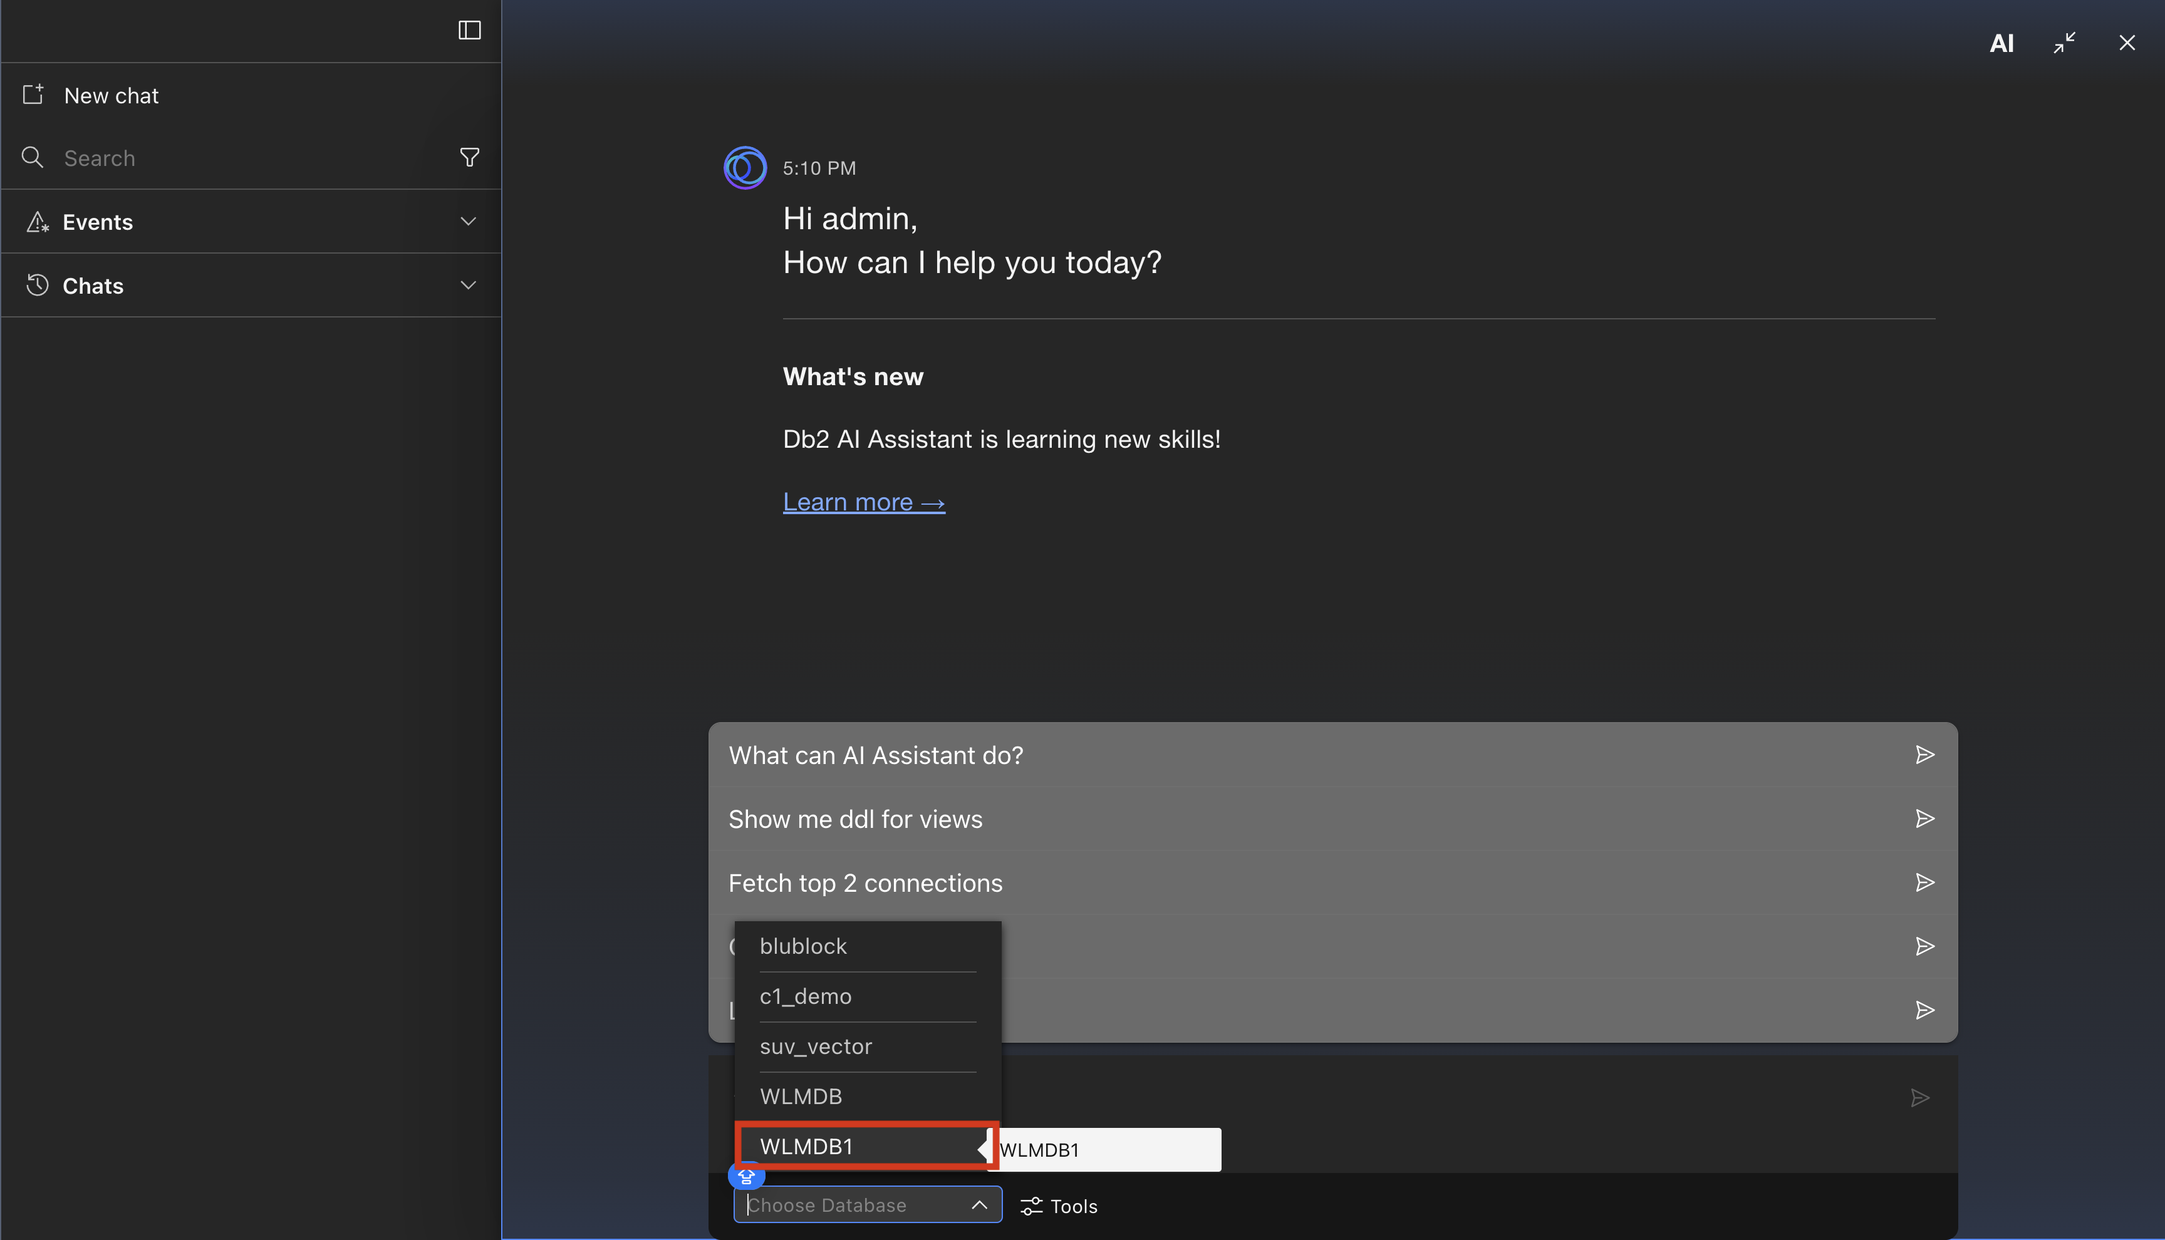
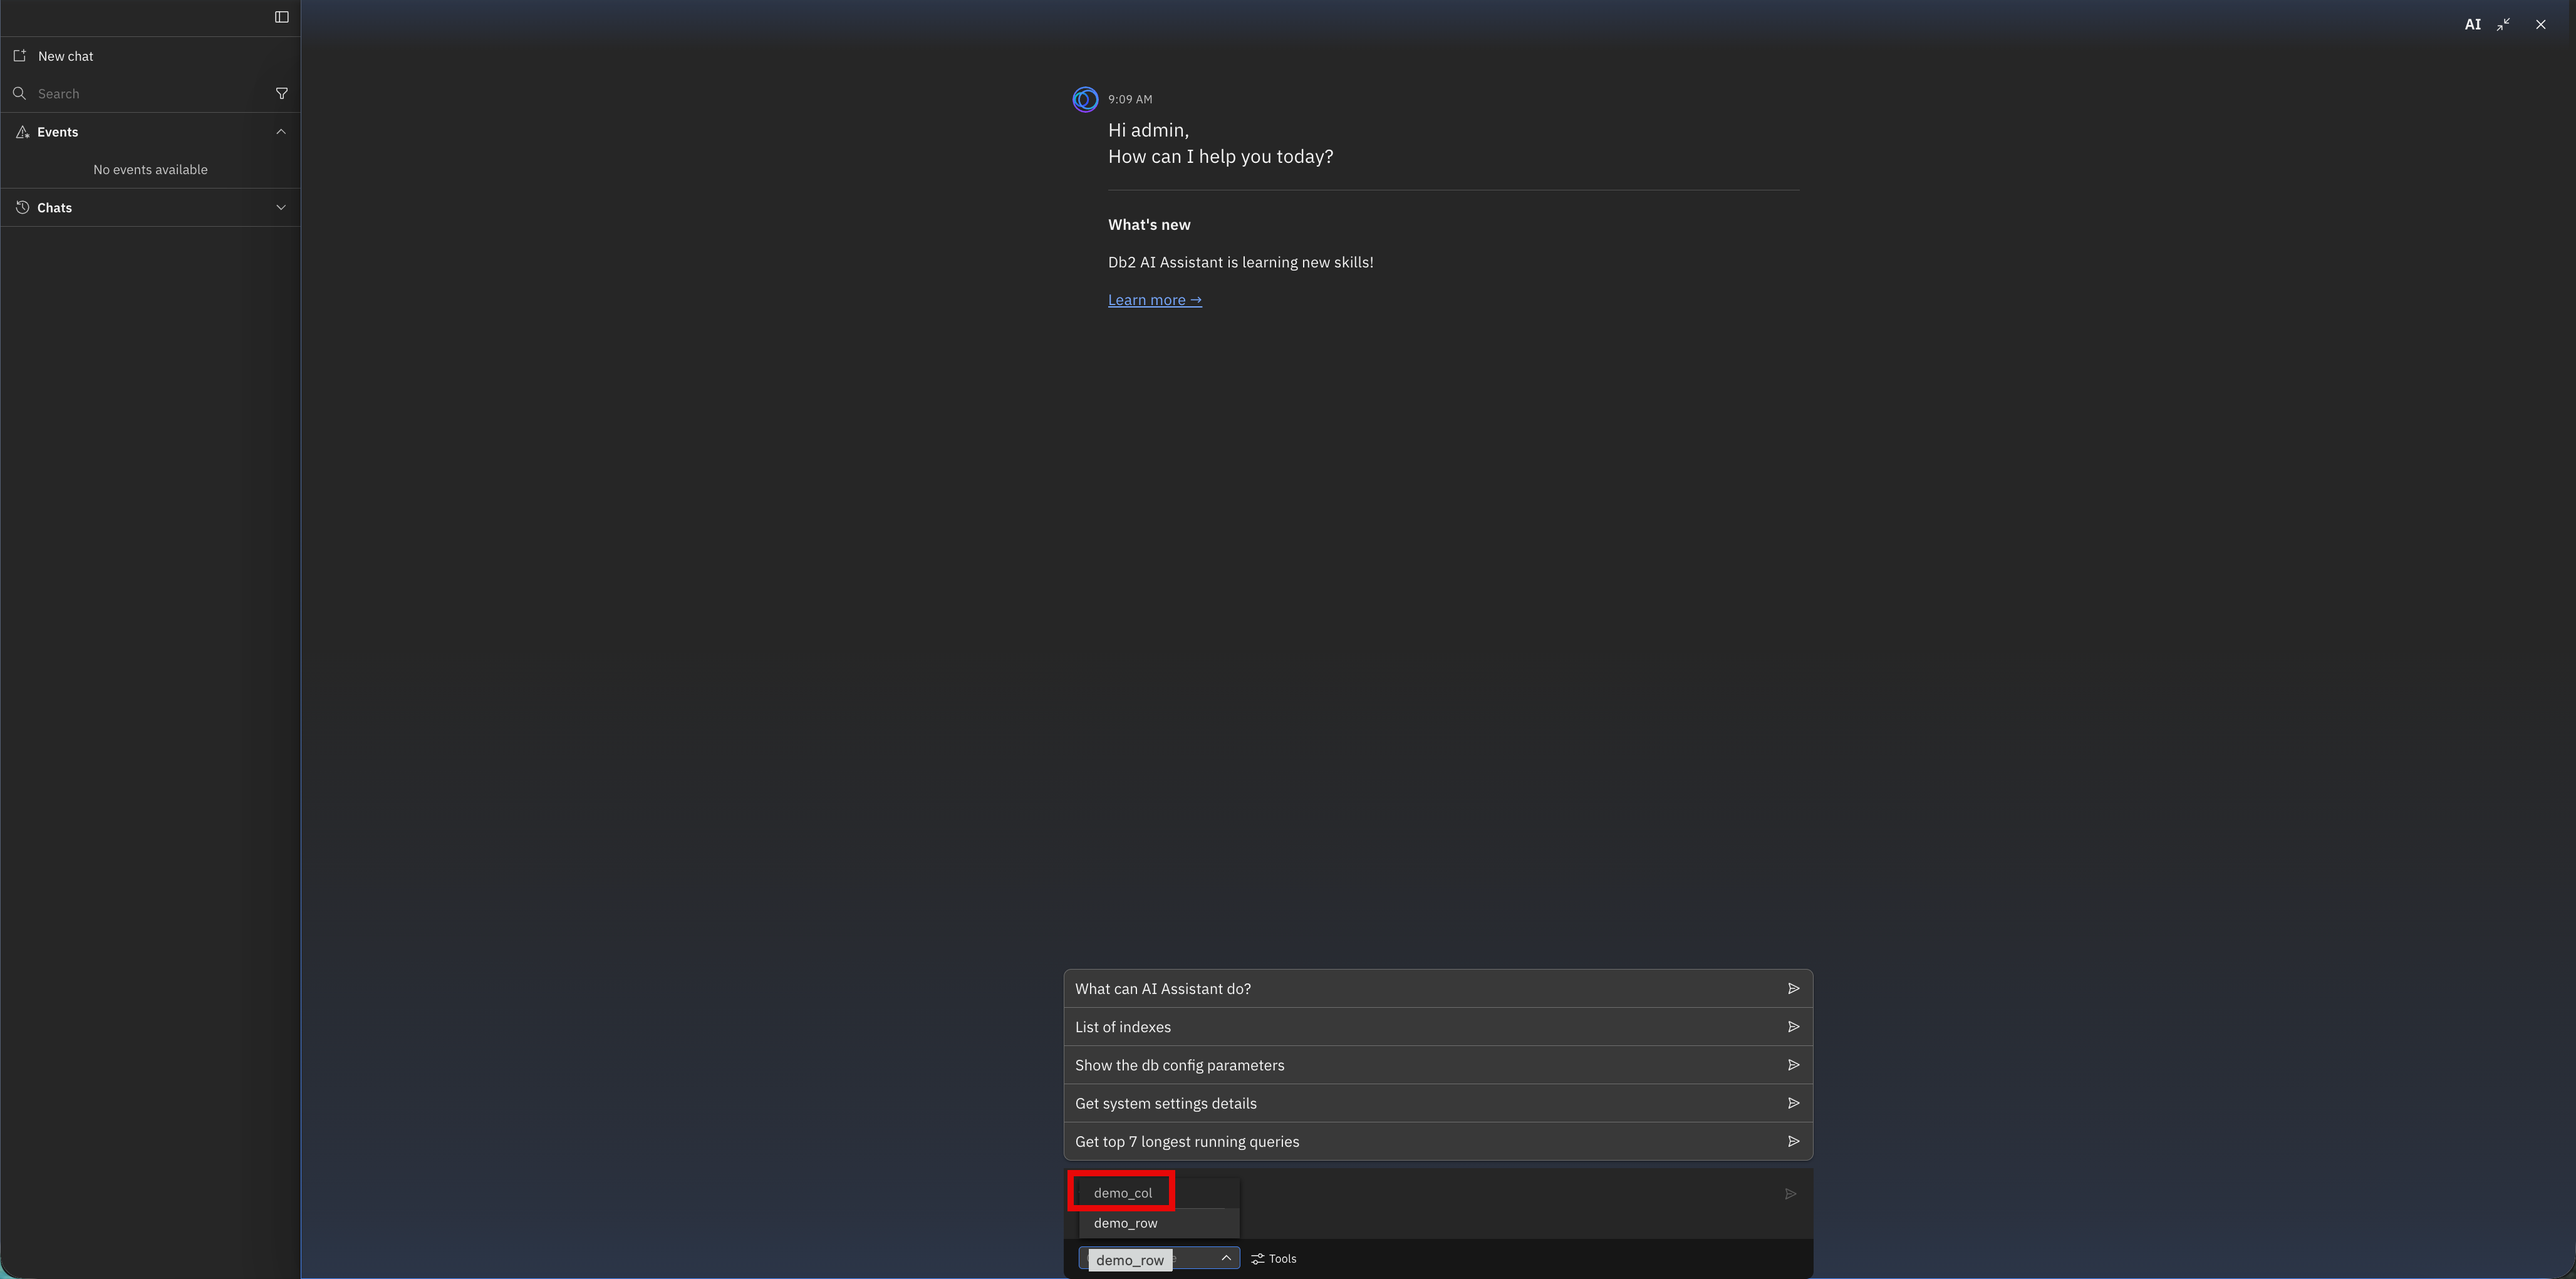
docs: Run Cleanup note; update WLM-step2-3, WLM-step4-1, WLM-step9-1

diff --git a/05-02-wlm-queuing.md b/05-02-wlm-queuing.md
@@ -156,7 +156,7 @@ The assistant autonomously runs its investigation. Observe the **Todo List** as 
 
 <h3 style="padding-left:14px; border-left:5px solid #EF9F27;">Step 10 — Stop the Scenario</h3>
 
-Return to the Agentic AI Simulator at `http://localhost:3000`, scroll to the **Sort Memory** simulator section, and click **Clean Up** to stop the scenario. When prompted for a schema name, enter `TPCH1` in upper case.
+Return to the Agentic AI Simulator at `http://localhost:3000`, scroll to the **Sort Memory** simulator section, and click **Clean Up** to stop the scenario. When prompted for a schema name, enter `TPCH1` in upper case, then click **Run Cleanup**.
 
 <img src="images/WLM-step10-1.png" width="800"/>
 
